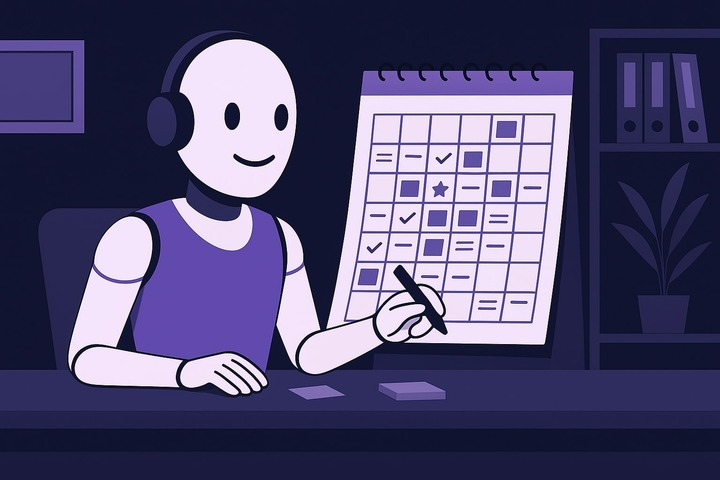
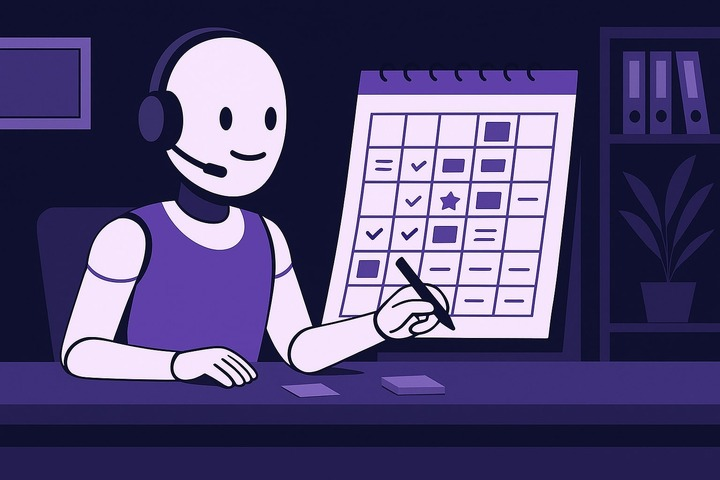
Adding last image to How It Works section

diff --git a/src/index.html b/src/index.html
@@ -224,7 +224,7 @@
             <div class="tw-flex">
                 <div class="tw-max-h-[650px] tw-max-w-[850px] tw-overflow-hidden tw-rounded-lg 
                                     tw-shadow-lg tw-shadow-[rgba(170,49,233,0.44021358543417366)]">
-                    <img src="./assets/images/home/mark-calendar.jpg" alt="coding"
+                    <img src="./assets/images/home/send-notifications.jpg" alt="coding"
                         class="tw-h-full tw-w-full tw-object-cover" />
                 </div>
             </div>
